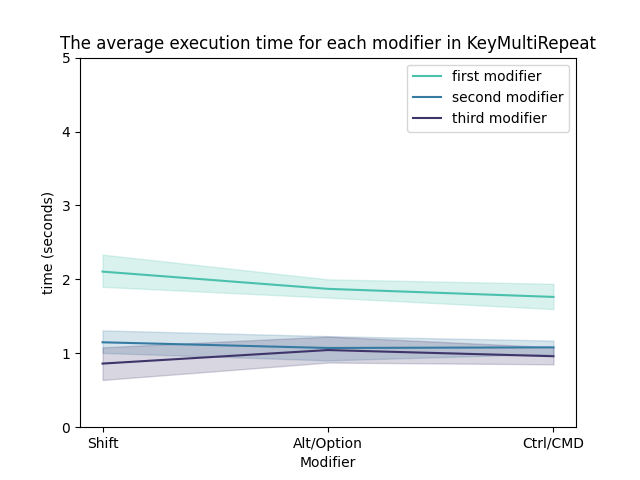
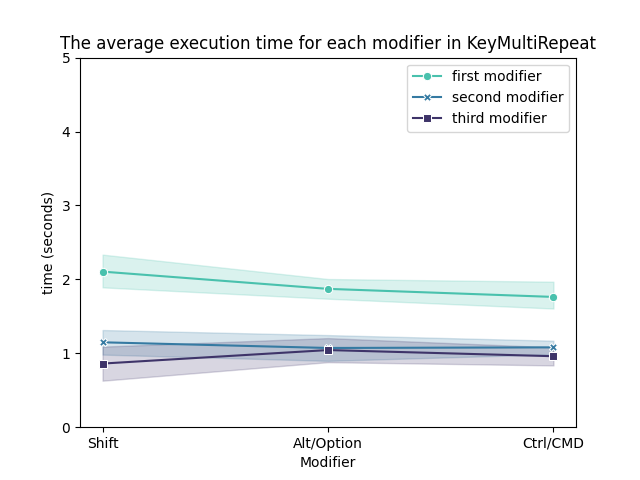
prettier graphs

diff --git a/server/logs/analyse.py b/server/logs/analyse.py
@@ -89,6 +89,7 @@ sns.lineplot(
     data=data1,
     label="mouseClick1", 
     color=palette[0],
+    marker='o'
     )
 sns.lineplot(
     x="SizeNames", 
@@ -96,6 +97,7 @@ sns.lineplot(
     data=data2,
     label="mouseClick2", 
     color=palette[1],
+    marker='X'
 )
 plt.title("The average time it takes to click on the target for each size of the target")
 plt.ylabel('time (seconds)')
@@ -119,10 +121,12 @@ data2 = remove_outliers(data, 'nbOfAttempts1')
 sns.lineplot(
     x="NbModiNames", 
     y="finalExecTime", 
-    data=data1
+    data=data1,
+    color=palette[0],
+    marker='o'
     )
 plt.title("The average execution time for each number of modifiers in KeyMultiModi")
-plt.ylabel('time (seconds)')
+plt.ylabel(' time (seconds)')
 plt.xlabel('Number of modifiers')
 plt.ylim(0, ylim)
 plt.savefig(path + '/graphs/KeyMultiModi_NbModi_finalExecTime.png')
@@ -132,7 +136,9 @@ plt.clf()
 sns.lineplot(
     x="NbModiNames", 
     y="nbOfAttempts1", 
-    data=data2
+    data=data2,
+    color=palette[0],
+    marker='o'
     )
 plt.title("The average number of attempts for each number of modifiers in KeyMultiModi")
 plt.ylabel('Number of attempts')
@@ -155,21 +161,24 @@ sns.lineplot(
     y="totalExecTime1", 
     data=data1,
     label="first modifier", 
-    color=palette[0]
+    color=palette[0],
+    marker='o'
     )
 sns.lineplot(
     x="modifiers2", 
     y="totalExecTime2", 
     data=data2, 
     label="second modifier", 
-    color=palette[1]
+    color=palette[1],
+    marker='X'
     )
 sns.lineplot(
     x="modifiers3", 
     y="totalExecTime3", 
     data=data3, 
     label="third modifier", 
-    color=palette[2]
+    color=palette[2],
+    marker='s'
     )
 plt.title("The average execution time for each modifier in KeyMultiRepeat")
 plt.ylabel('time (seconds)')
